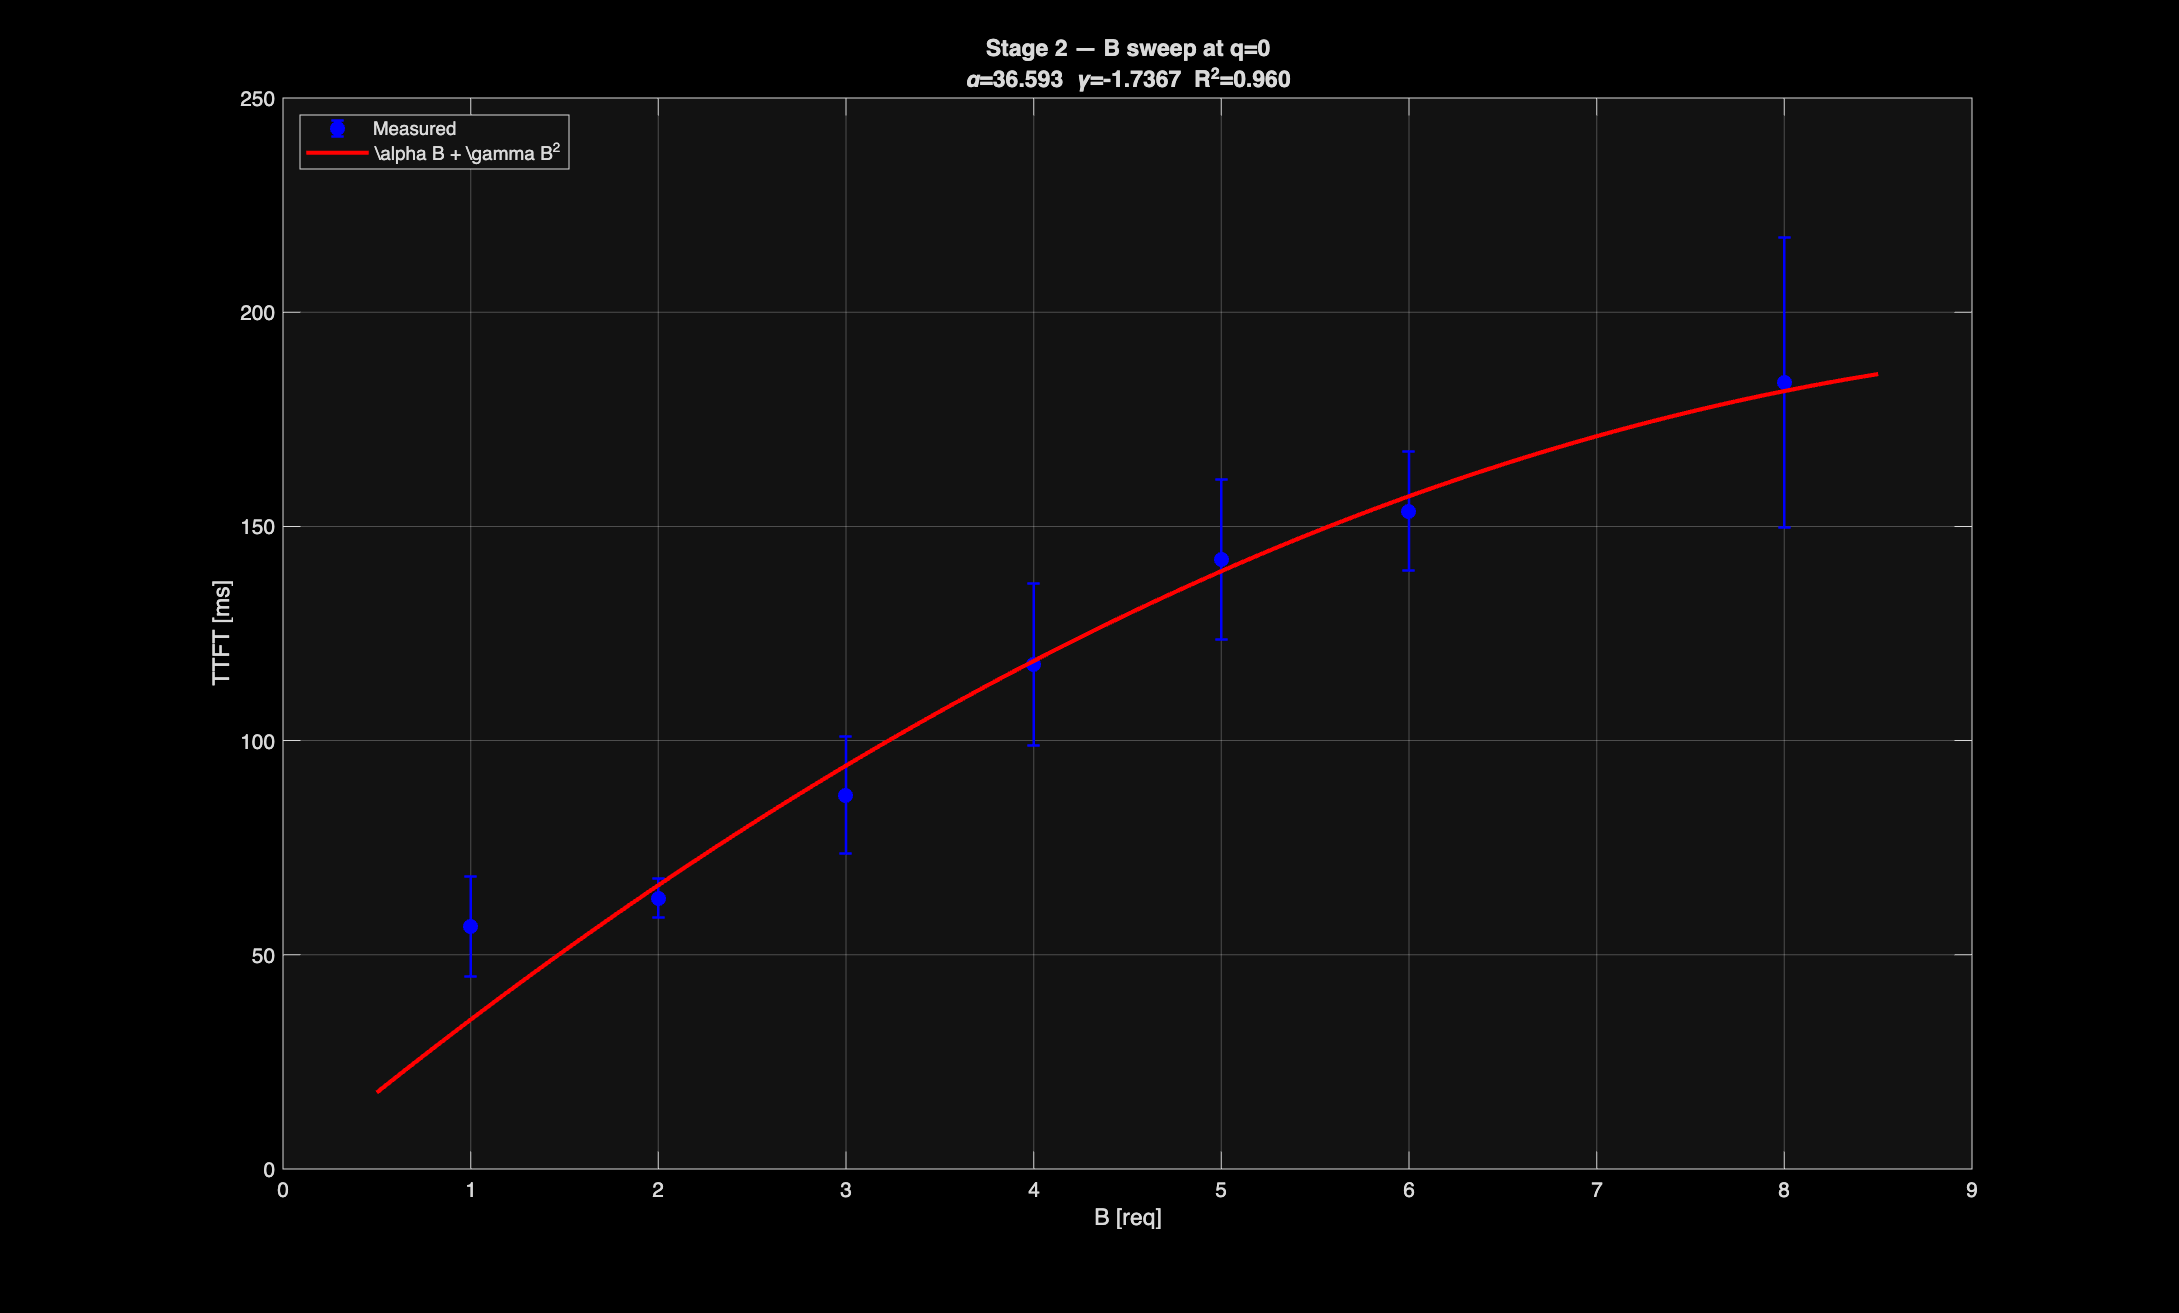
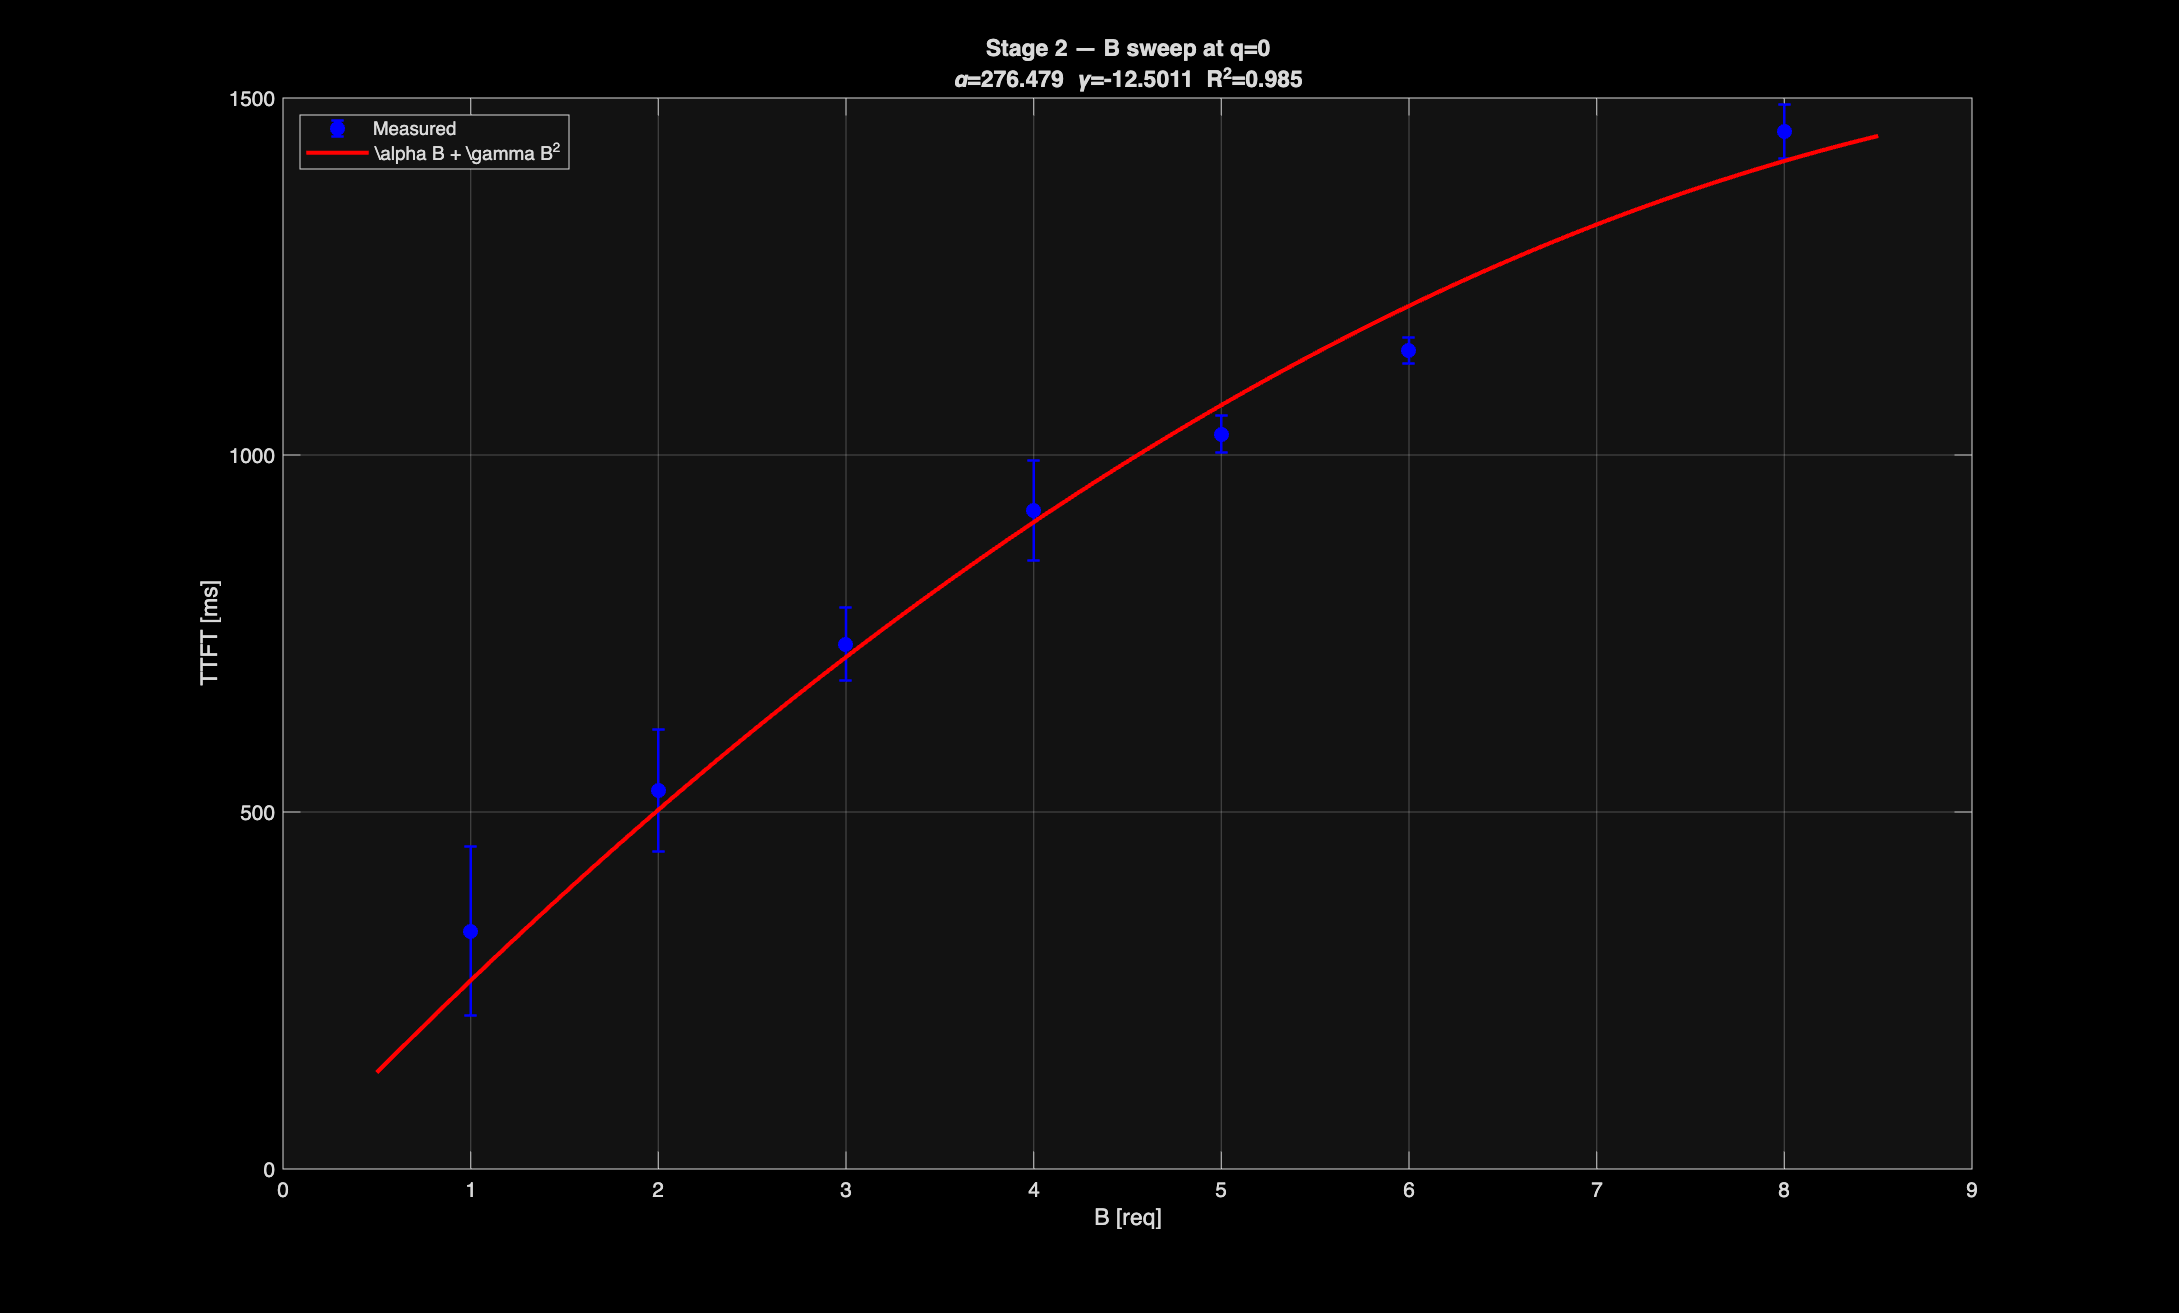
chapter_5: fix stage2 back to vllm_ttft; increase metrics pause to 600ms

diff --git a/chapter_5/identification/characterise_plant.m b/chapter_5/identification/characterise_plant.m
@@ -201,13 +201,13 @@ for bi = 1:n_b
         futures = cell(b, 1);
         for i = 1:b
             prompt = cfg.prompts{mod(i-1, numel(cfg.prompts))+1};
-            futures{i} = parfeval(@vllm_e2e, 1, ...
-                cfg.gen_url, cfg.model, prompt, cfg.e2e_tokens, cfg.timeout);
+            futures{i} = parfeval(@vllm_ttft, 1, ...
+                cfg.gen_url, cfg.model, prompt, cfg.num_predict, cfg.timeout);
         end
 
-        % Read queue depth immediately after submitting (before collecting)
-        % This gives the num_requests_waiting at peak load
-        pause(0.1);   % 100ms: e2e requests are ~400ms so queue is visible here
+        % Read queue depth -- TTFT requests complete quickly so q stays 0 here.
+        % This is expected and correct for Stage 2 (q=0 B-sweep).
+        pause(0.05);
         try
             raw = webread(cfg.metrics_url, weboptions('Timeout',3,'ContentType','text'));
             m   = parse_vllm_metrics(raw);
@@ -306,9 +306,10 @@ for tick = 1:(cfg.build_ticks + cfg.n_queue_meas)
             cfg.gen_url, cfg.model, prompt, cfg.e2e_tokens, cfg.timeout);
     end
 
-    % Read queue depth 100ms after submitting.
-    % End-to-end requests take ~400ms so the queue is still full at 100ms.
-    pause(0.1);
+    % Read queue depth 600ms after submitting.
+    % parfeval workers take ~455ms to all send HTTP requests, so the queue
+    % only becomes visible at ~650ms. 600ms gives reliable q readings.
+    pause(0.6);
     q_meas = 0;
     try
         raw = webread(cfg.metrics_url, weboptions('Timeout',3,'ContentType','text'));
@@ -401,7 +402,7 @@ for li = 1:n_lam
             futures{i} = parfeval(@vllm_e2e, 1, ...
                 cfg.gen_url, cfg.model, prompt, cfg.e2e_tokens, cfg.timeout);
         end
-        pause(0.1);   % 100ms: e2e requests are ~400ms so queue is visible here
+        pause(0.6);   % 600ms: parfeval workers need ~455ms to all submit requests
         q_meas4 = 0;
         try
             raw = webread(cfg.metrics_url,weboptions('Timeout',3,'ContentType','text'));